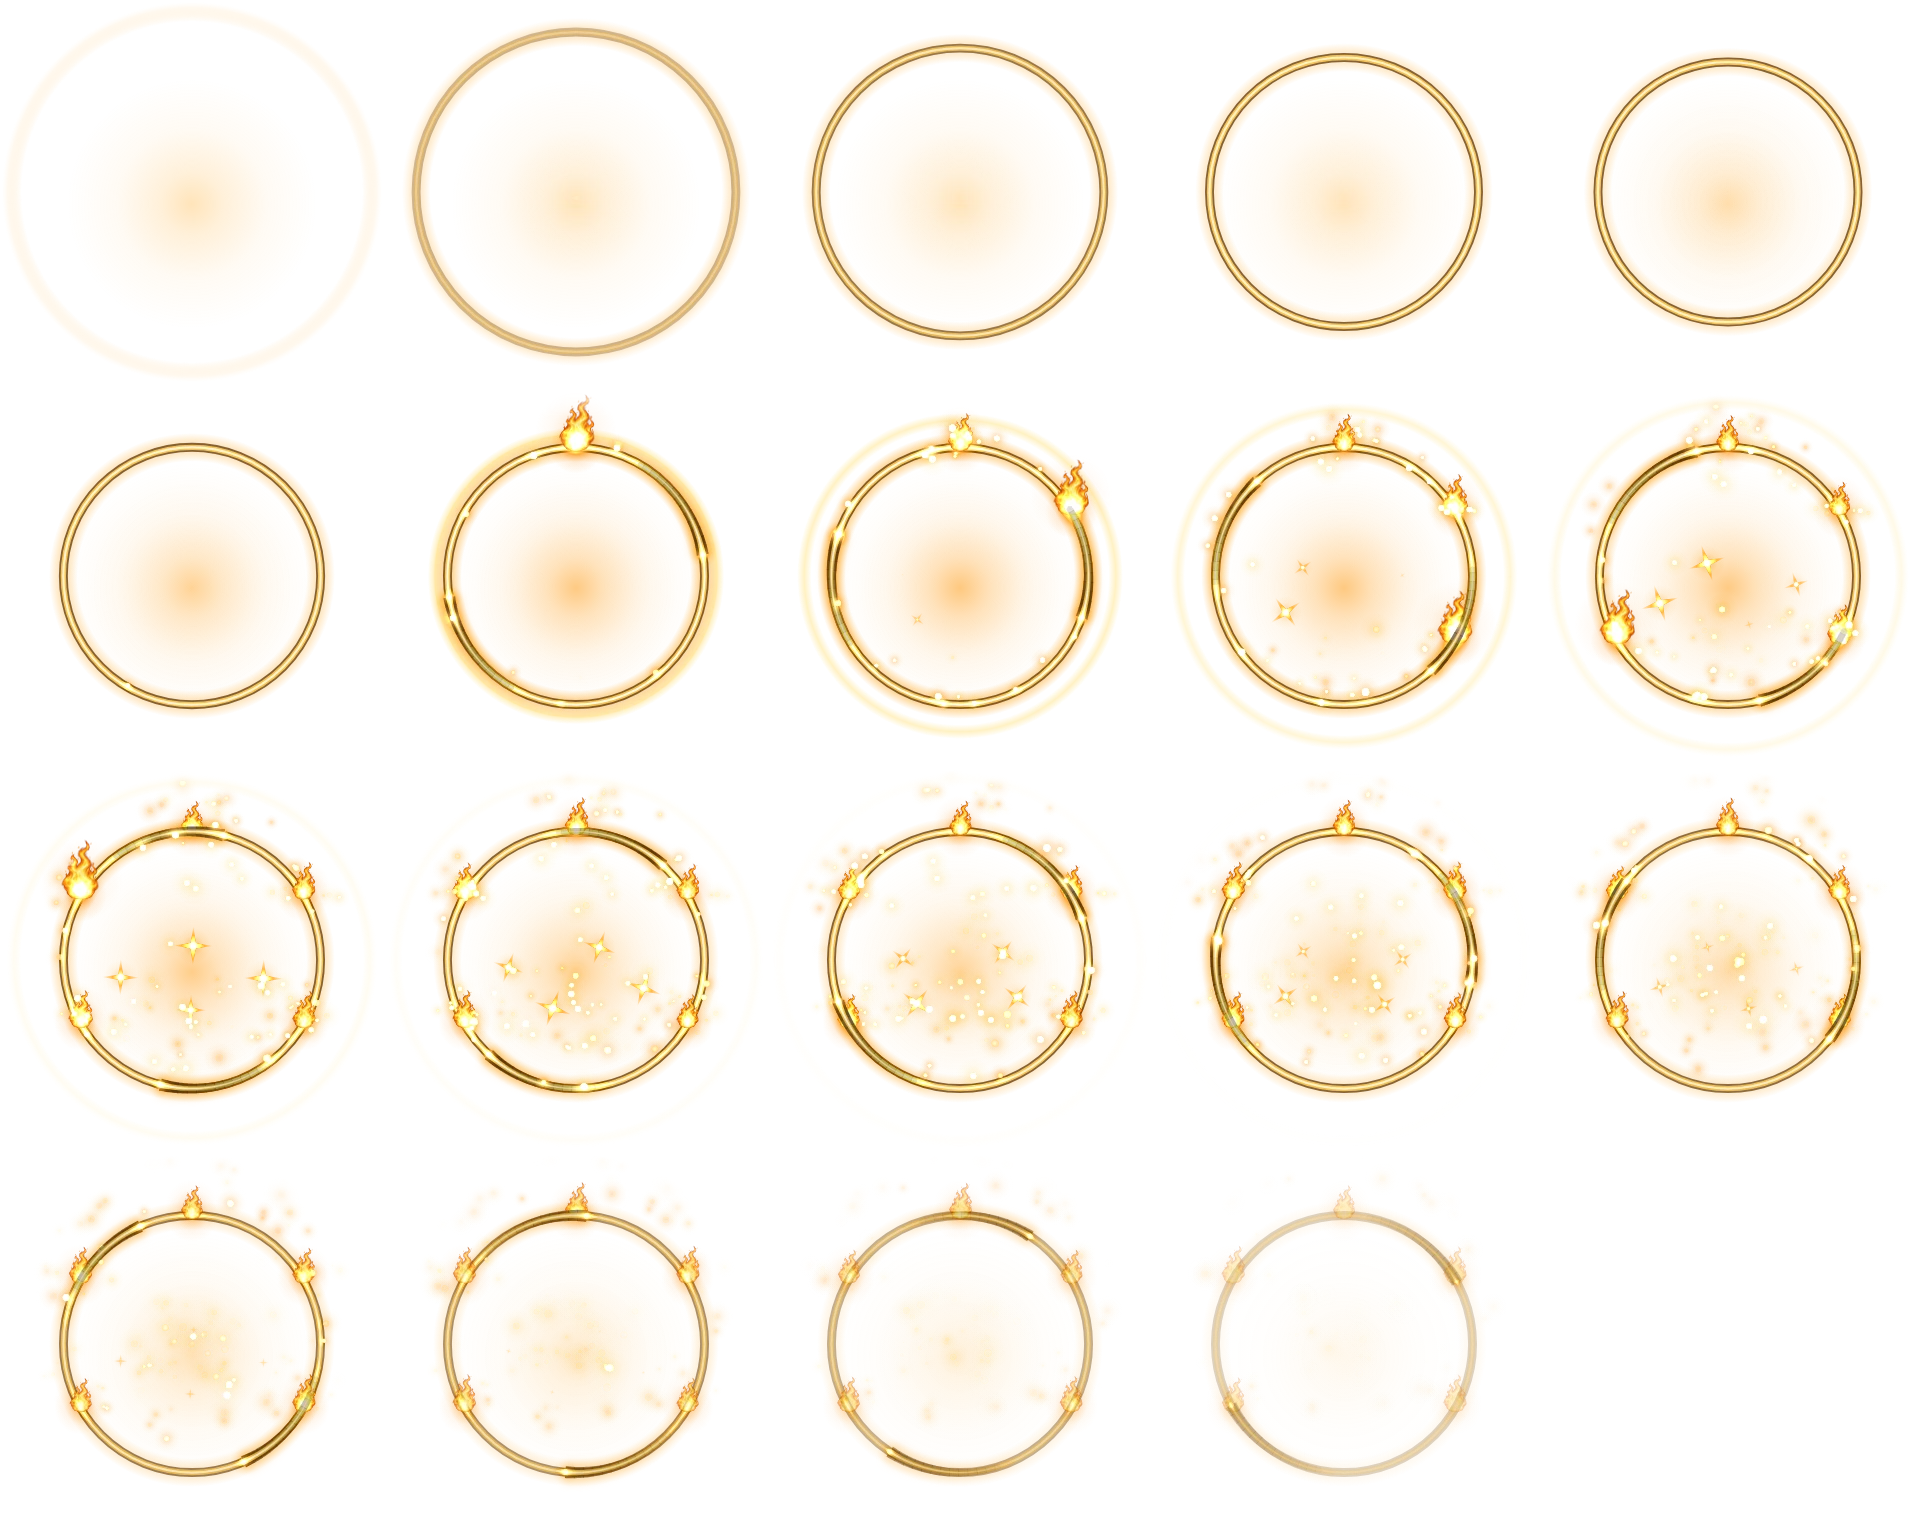
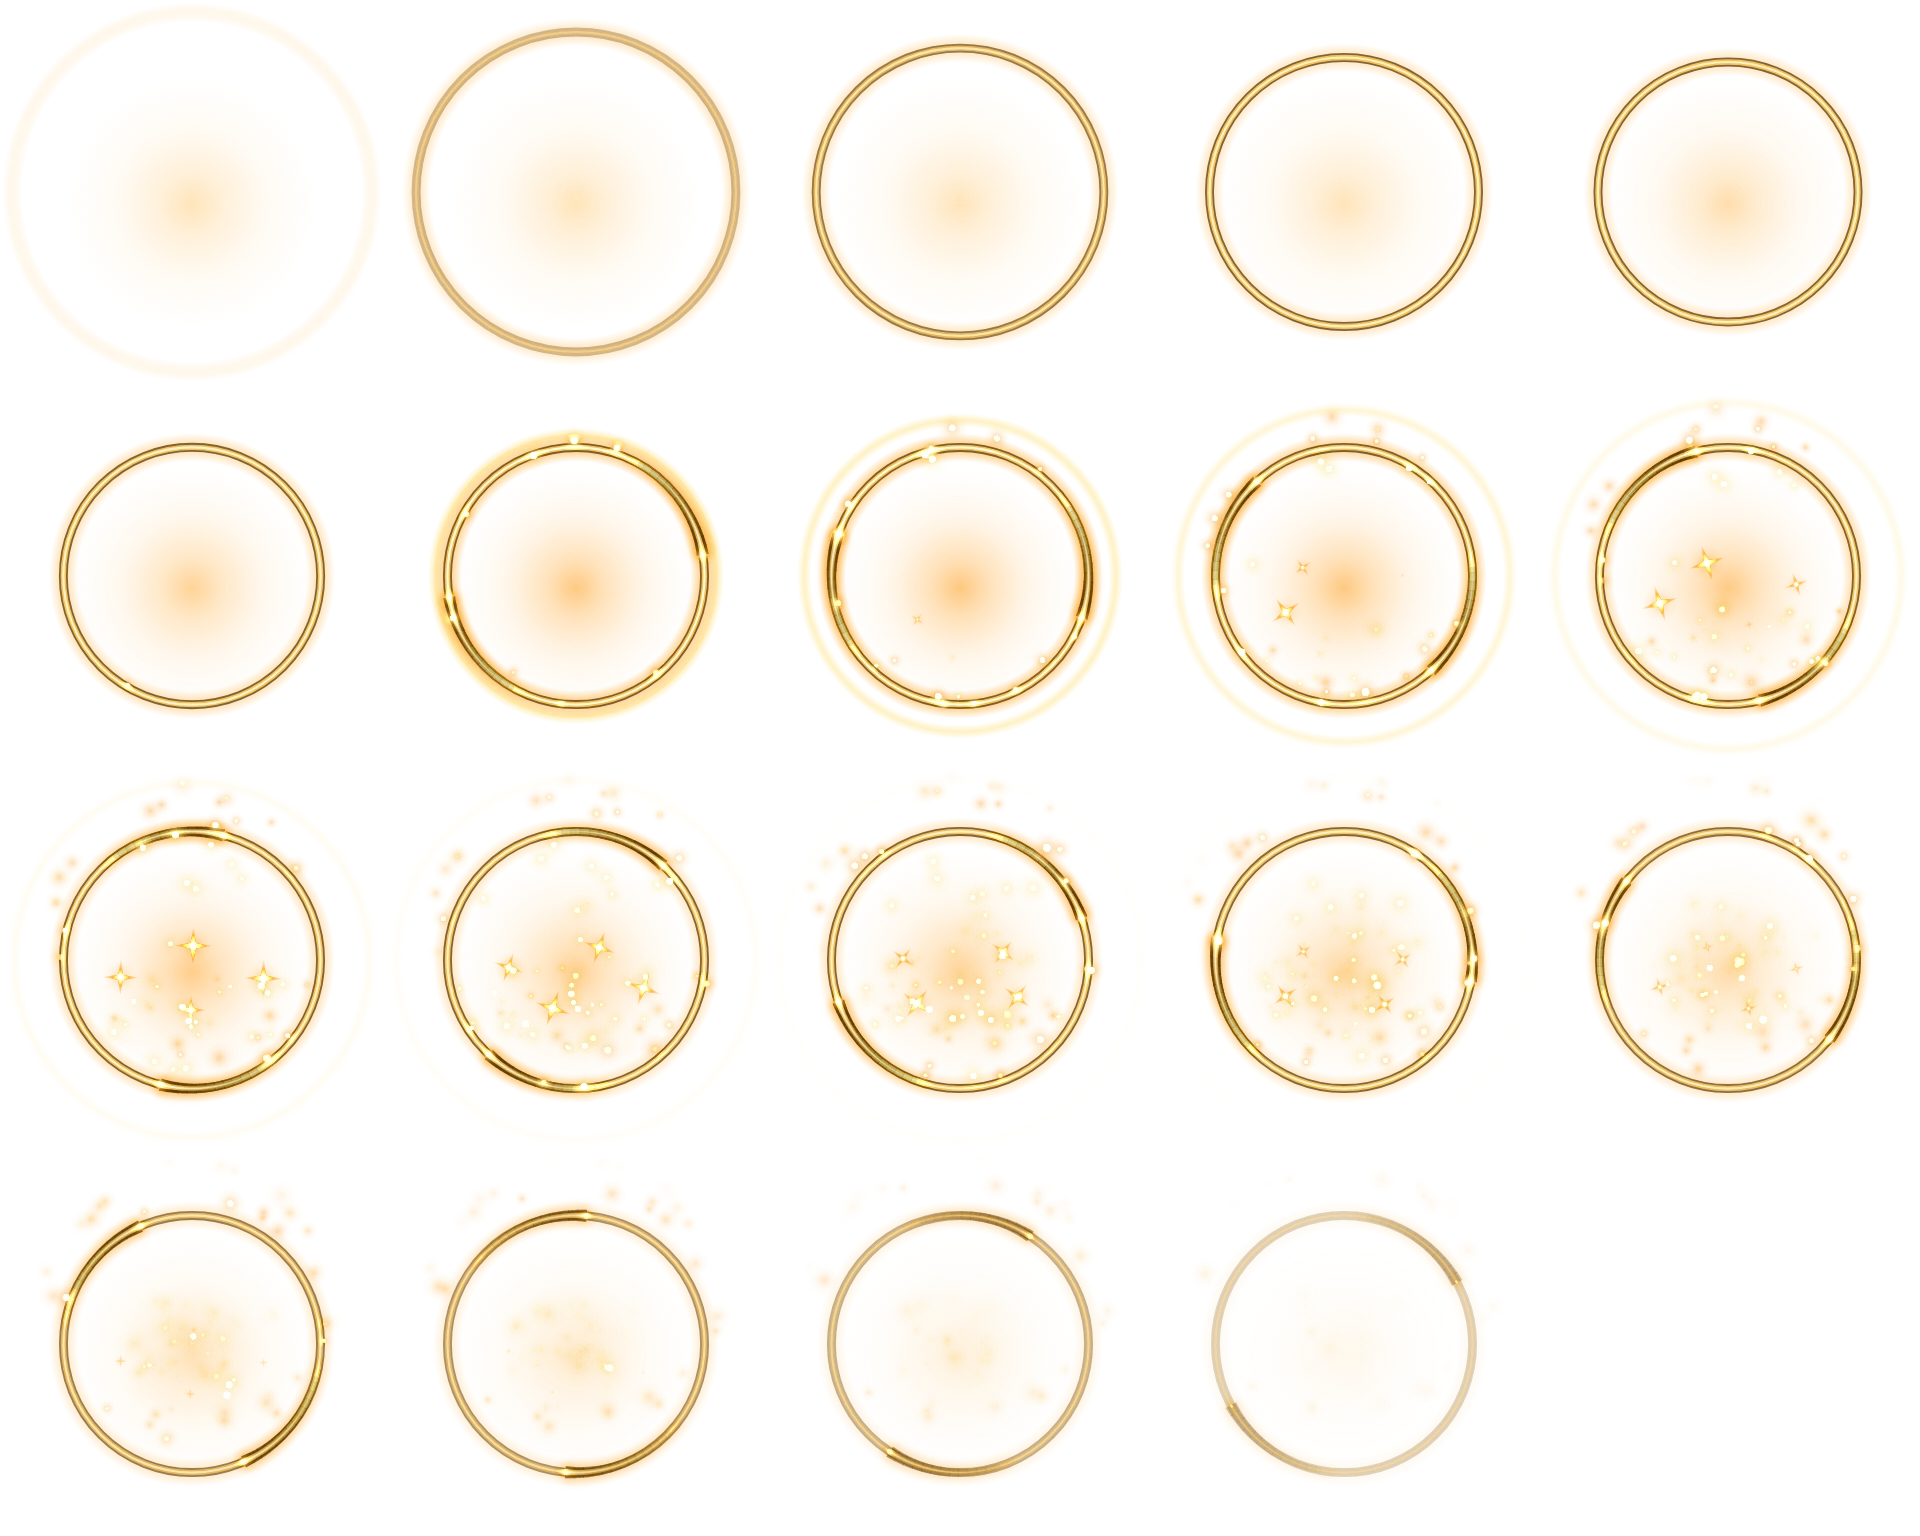
Beacon cast: no sequential vertex flames
The cast effect keeps the gold ring tightening onto the beacon ring with a
flash and shock ring, orbiting comets, rising sparks and gold dust, but no
longer lights flames one by one on the vertices.

diff --git a/src/art/pxf/requests.md b/src/art/pxf/requests.md
@@ -61,7 +61,7 @@ Lim 「직업별 스킬별로 이펙트가 달라야 하는데 중복되는 게 
 | priest-hymn | 떠오르는 음표 | druid-quietwood | 떨어지는 잎 + 바닥 안개 |
 | priest-serenity | 터져 소용돌이치며 솟는 금빛 반짝이 가루 폭풍 (치유 강화판) | druid-rebirth | 초록 빛 기둥 + 금빛 씨앗 (기둥은 이것만) |
 |  |  | paladin-holy-light | 위에서 쏟아져 내리는 노란 빛 알갱이 (광선 없음, 2026-10-18 Lim) |
-| priest-relay | 포물선으로 날아와 튀는 꼬리 별 | paladin-beacon | 칸 둘레로 조여드는 금빛 고리와 꼭짓점 다섯에 차례로 붙는 불꽃 (2026-10-19 봉화 그릇 뺌) |
+| priest-relay | 포물선으로 날아와 튀는 꼬리 별 | paladin-beacon | 칸 둘레로 조여드는 금빛 고리와 도는 혜성 · 날아오르는 불티 (2026-10-19 그릇 · 꼭짓점 불꽃 뺌) |
 | paladin-oath | 도는 마름모 룬 + 오각 문양 (Codex 오각 서약 문장) | paladin-light-wave | 쏟아져 양옆으로 부서지는 파도 (Codex 파도 마루) |
 | paladin-cleanse | 머리 위로 솟아 어둠을 빨아들여 태우는 태양 문장 (Codex 태양 문장 · 어둠 연기, 2026-10-19 Lim 손 모양 뺌) | paladin-sacrifice | 내려오는 사슬 + 붉은 맥동 (Codex 진홍 방패) |
 | paladin-sanctuary | 바닥에서 솟는 반구 막 (Codex 빛 돔) | paladin-hand-guard | 도는 팔각 봉인 문양 (Codex 판금 팔각 테) |
